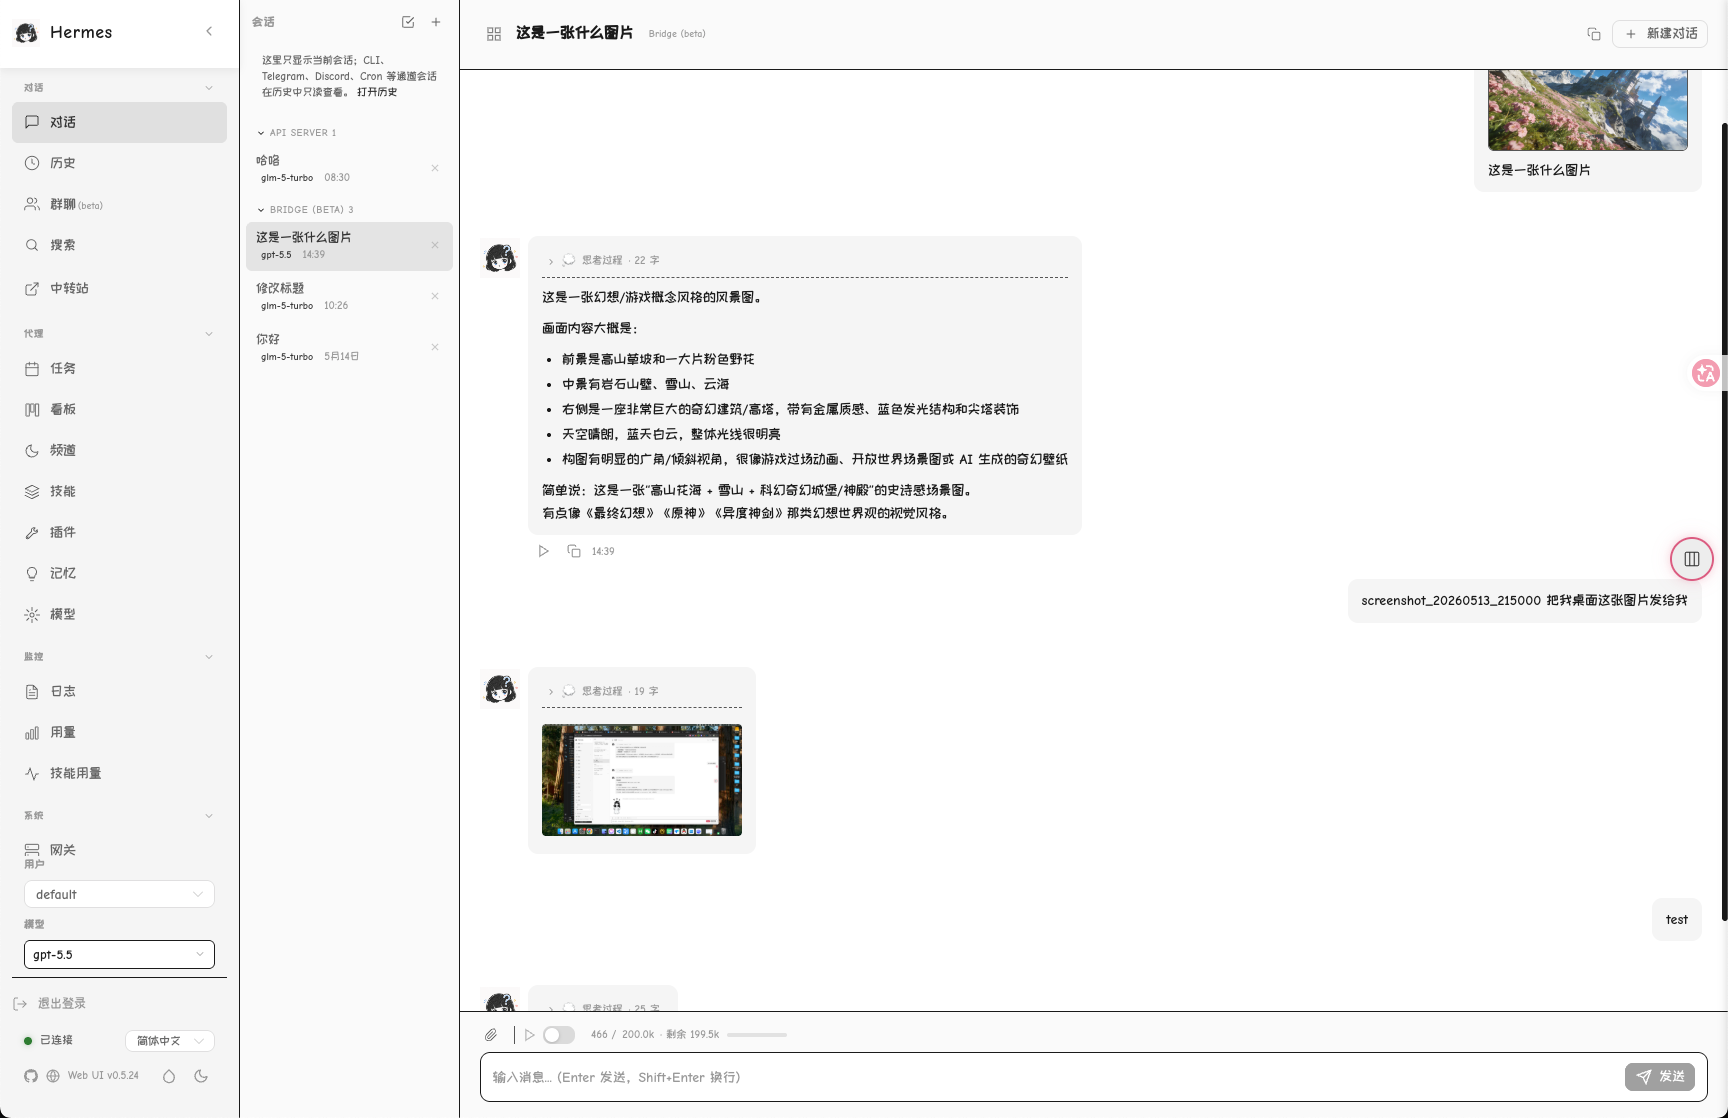
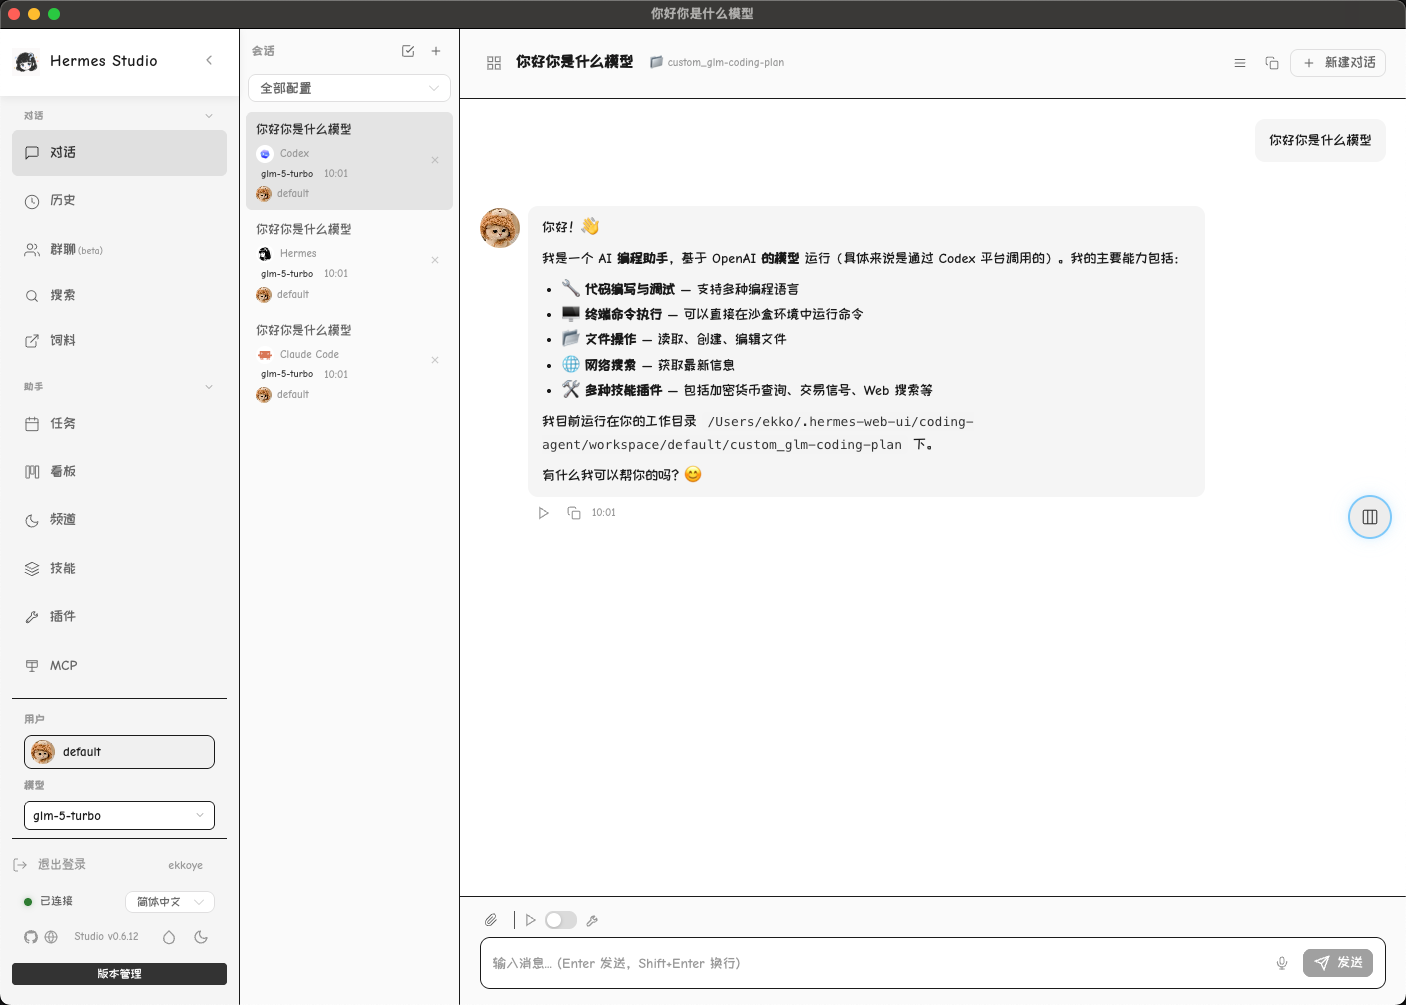
docs: refresh README product overview (#1463)
* docs: refresh README product overview

* docs: refresh README screenshots

Pull request: docs: refresh README product overview
## Summary
- reposition README branding around Hermes Studio as the desktop app, local runtime, and web console
- add a concise core capabilities overview to both English and Chinese READMEs
- document newer visible modules including Kanban, Coding Agents, MCP/runtime management, devices, performance, and desktop update fallback behavior

## Validation
- git diff --check -- README.md README_zh.md

diff --git a/README.md b/README.md
@@ -1,12 +1,12 @@
 <p align="center">
-  <strong>Hermes Web UI</strong>
+  <strong>Hermes Studio</strong>
   <a href="./README_zh.md">中文</a>
 </p>
 
 <p align="center">
-  A full-featured desktop app and web dashboard for <a href="https://github.com/NousResearch/hermes-agent">Hermes Agent</a>.<br/>
-  Manage AI chat sessions, monitor usage & costs, configure platform channels,<br/>
-  schedule cron jobs, browse skills — all from a clean, responsive web interface.
+  A desktop app, local runtime, and web console for <a href="https://github.com/NousResearch/hermes-agent">Hermes Agent</a>.<br/>
+  Chat with agents, manage models and profiles, connect platform channels,<br/>
+  automate jobs, inspect files, run coding agents, and keep everything local.
 </p>
 
 <p align="center">
@@ -35,9 +35,19 @@
   </a>
 </p>
 
-> 🎁 **[Atlas Cloud](https://www.atlascloud.ai/?utm_source=github&utm_medium=link&utm_campaign=hermes-web-ui)** is a full-modal, OpenAI-compatible AI inference platform (DeepSeek, Qwen, GLM, Kimi, MiniMax, …). Select **Atlas Cloud** from the provider panel and add your API key.
+> 🎁 **[Atlas Cloud](https://www.atlascloud.ai/?utm_source=github&utm_medium=link&utm_campaign=hermes-web-ui)** is a multimodal, OpenAI-compatible AI inference platform (DeepSeek, Qwen, GLM, Kimi, MiniMax, …). Select **Atlas Cloud** from the provider panel and add your API key.
 
 ---
+
+## Core Capabilities
+
+| Area | What Hermes Studio does |
+| --- | --- |
+| Agent chat | Runs Hermes Agent conversations with streaming responses, tool traces, file upload/download, and persistent local sessions. |
+| Local control plane | Manages profiles, providers, models, credentials, memory, skills, plugins, logs, and runtime settings from one dashboard. |
+| Automation | Configures platform channels, cron jobs, Kanban tasks, group-chat rooms, and MCP servers around the same Hermes profiles. |
+| Workspace tools | Provides a file browser, web terminal, voice input/output, coding-agent runners, device discovery, and performance views. |
+| Distribution | Ships as a desktop app for Windows/macOS/Linux, an npm CLI package, and a Docker image. |
 
 ## Features
 
@@ -90,6 +100,12 @@ Unified configuration for **8 platforms** in one page:
 - Trigger immediate execution
 - Cron expression quick presets
 
+### Kanban
+
+- Profile-aware Kanban board for planning and tracking agent work
+- Task creation, updates, and status movement from the dashboard
+- Shared with the same local Web UI state and authentication model
+
 ### Model Management
 
 - Auto-discover models from credential pool (`~/.hermes/auth.json`)
@@ -126,6 +142,12 @@ Unified configuration for **8 platforms** in one page:
 - SQLite message persistence
 - Mobile responsive with collapsible sidebar
 
+### Coding Agents
+
+- Launch and monitor local coding-agent sessions from the web dashboard
+- Dedicated proxy routes for Codex and Claude Code integrations
+- Stores agent output and reasoning metadata for later inspection
+
 ### Skills & Memory
 
 - Browse and search installed skills
@@ -137,6 +159,13 @@ Unified configuration for **8 platforms** in one page:
 - View agent / server / error logs
 - Filter by log level, log file, and keyword
 - Structured log parsing with HTTP access log highlighting
+
+### Admin & Runtime Management
+
+- Device and LAN peer views for local-network discovery and peer tooling
+- MCP manager for the managed `hermes-studio` MCP server and profile injection
+- Runtime version and version-preview tooling for testing newer builds in isolation
+- Performance monitor views for super administrators
 
 ### Authentication
 
@@ -191,6 +220,14 @@ hermes-web-ui reset-default-login
 - Real-time keyboard input and PTY output streaming via WebSocket
 - Window resize support
 
+### Desktop App & Updates
+
+- Native Electron shell for Windows, macOS, and Linux
+- Bundles the Web UI runtime and starts the local Hermes Studio server automatically
+- Uses Cloudflare download endpoints for desktop auto-update metadata and assets first
+- Falls back to GitHub Releases `latest` assets if the Cloudflare update feed is unavailable
+- Windows upgrades attempt to close an existing Hermes Studio process before replacing files
+
 ---
 
 ## Quick Start
@@ -209,6 +246,11 @@ runtime and stores Hermes Agent data in the native Hermes location:
 
 The desktop wrapper stores its own Web UI state separately in
 `~/.hermes-web-ui` unless `HERMES_WEB_UI_HOME` is set.
+
+Desktop auto-updates read the latest feed from
+`https://download.ekkolearnai.com/latest` first. If that endpoint is
+unavailable, the updater falls back to
+`https://github.com/EKKOLearnAI/hermes-web-ui/releases/latest/download`.
 
 ### npm
 
@@ -365,7 +407,7 @@ Browser → BFF (Koa, :8648) → Socket.IO /chat-run
 
 The frontend is designed with **multi-agent extensibility** — all Hermes-specific code is namespaced under `hermes/` directories (API, components, views, stores), making it straightforward to add new agent integrations alongside.
 
-The BFF layer handles Socket.IO chat streaming, the Hermes agent bridge, profile-aware file upload and path-based download (multi-backend: local/Docker/SSH/Singularity), session CRUD, account- and profile-scoped management, config/credential management, WeChat QR login, model discovery, skills/memory management, log reading, and static file serving.
+The BFF layer handles Socket.IO chat streaming, the Hermes agent bridge, profile-aware file upload and path-based download (multi-backend: local/Docker/SSH/Singularity), session CRUD, account- and profile-scoped management, config/credential management, WeChat QR login, model discovery, skills/memory/plugin management, TTS/STT, coding-agent proxies, MCP/runtime management, log reading, and static file serving.
 
 ## Tech Stack
 

diff --git a/README_zh.md b/README_zh.md
@@ -1,12 +1,12 @@
 <p align="center">
-  <strong>Hermes Web UI</strong>
+  <strong>Hermes Studio</strong>
   <a href="./README.md">English</a>
 </p>
 
 <p align="center">
-  <a href="https://github.com/NousResearch/hermes-agent">Hermes Agent</a> 的全功能桌面应用和 Web 管理面板。<br/>
-  管理 AI 聊天会话、监控用量与成本、配置平台渠道、<br/>
-  管理定时任务、浏览技能 —— 全部在一个简洁响应式的 Web 界面中完成。
+  面向 <a href="https://github.com/NousResearch/hermes-agent">Hermes Agent</a> 的桌面应用、本地运行时和 Web 控制台。<br/>
+  聊天、模型与 Profile 管理、平台渠道接入、任务自动化、<br/>
+  文件查看、Coding Agent 和本地运行环境都在一个界面中完成。
 </p>
 
 <p align="center">
@@ -43,9 +43,19 @@
   </a>
 </p>
 
-> 🎁 **[Atlas Cloud](https://www.atlascloud.ai/?utm_source=github&utm_medium=link&utm_campaign=hermes-web-ui)** 是全模态、OpenAI 兼容的 AI 推理平台（DeepSeek、Qwen、GLM、Kimi、MiniMax 等）。在 Provider 面板选择 **Atlas Cloud** 并填入 API Key 即可使用。
+> 🎁 **[Atlas Cloud](https://www.atlascloud.ai/?utm_source=github&utm_medium=link&utm_campaign=hermes-web-ui)** 是多模态、OpenAI 兼容的 AI 推理平台（DeepSeek、Qwen、GLM、Kimi、MiniMax 等）。在 Provider 面板选择 **Atlas Cloud** 并填入 API Key 即可使用。
 
 ---
+
+## 核心能力
+
+| 模块 | Hermes Studio 能做什么 |
+|---|---|
+| Agent 聊天 | 运行 Hermes Agent 对话，支持流式回复、工具调用轨迹、文件上传下载和本地持久化会话。 |
+| 本地控制台 | 在一个仪表盘中管理 Profile、Provider、模型、凭证、记忆、技能、插件、日志和运行时设置。 |
+| 自动化 | 围绕同一套 Hermes Profile 配置平台渠道、Cron 任务、Kanban 任务、群聊房间和 MCP Server。 |
+| 工作区工具 | 提供文件浏览器、Web 终端、语音输入输出、Coding Agent、设备发现和性能视图。 |
+| 分发形态 | 支持 Windows/macOS/Linux 桌面应用、npm CLI 包和 Docker 镜像。 |
 
 ## 功能特性
 
@@ -98,6 +108,12 @@
 - 立即触发执行
 - Cron 表达式快捷预设
 
+### Kanban
+
+- 按 Profile 管理的 Kanban 看板，用于规划和跟踪 Agent 工作
+- 可在仪表盘中创建任务、更新任务并移动状态
+- 复用 Web UI 本地状态和认证体系
+
 ### 模型管理
 
 - 从凭证池自动发现模型（`~/.hermes/auth.json`）
@@ -134,6 +150,12 @@
 - SQLite 消息持久化
 - 移动端响应式布局，可折叠侧边栏
 
+### Coding Agents
+
+- 在 Web 仪表盘中启动和监控本地 Coding Agent 会话
+- 为 Codex 和 Claude Code 集成提供独立代理路由
+- 持久化 Agent 输出和 reasoning 元数据，便于后续查看
+
 ### 技能与记忆
 
 - 浏览和搜索已安装的技能
@@ -145,6 +167,13 @@
 - 查看 Agent / Server / Error 日志
 - 按日志级别、日志文件和关键词过滤
 - 结构化日志解析，HTTP 访问日志高亮
+
+### 管理与运行时
+
+- 设备和局域网 Peer 页面，用于本地网络发现和 Peer 工具能力
+- MCP 管理器，用于托管的 `hermes-studio` MCP Server 和 Profile 自动注入
+- Runtime Version 和 Version Preview 工具，用于隔离测试新版本
+- 面向超级管理员的性能监控视图
 
 ### 认证
 
@@ -199,6 +228,14 @@ hermes-web-ui reset-default-login
 - 通过 WebSocket 实时传输键盘输入和 PTY 输出
 - 支持窗口大小调整
 
+### 桌面应用与自动更新
+
+- Windows、macOS 和 Linux 原生 Electron 桌面壳
+- 内置 Web UI 运行时，并自动启动本地 Hermes Studio 服务
+- 桌面自动更新优先使用 Cloudflare 下载端点获取更新元数据和安装包
+- 如果 Cloudflare 更新源不可用，会回退到 GitHub Releases `latest` 资源
+- Windows 升级时会先尝试关闭已有 Hermes Studio 进程，再替换文件
+
 ---
 
 ## 快速开始
@@ -216,6 +253,10 @@ hermes-web-ui reset-default-login
 
 桌面壳自身的 Web UI 状态会单独保存到 `~/.hermes-web-ui`，除非设置了
 `HERMES_WEB_UI_HOME`。
+
+桌面自动更新会优先读取 `https://download.ekkolearnai.com/latest`。
+如果该端点不可用，更新器会回退到
+`https://github.com/EKKOLearnAI/hermes-web-ui/releases/latest/download`。
 
 ### npm 安装
 
@@ -371,7 +412,7 @@ npm run build   # 构建输出到 dist/
 
 前端采用 **多 Agent 可扩展架构** — 所有 Hermes 相关代码都按命名空间组织在 `hermes/` 目录下（API、组件、视图、Store），可以方便地并行接入新的 Agent。
 
-BFF 层负责：Socket.IO 聊天流式推送、Hermes agent bridge、按 Profile 隔离的上传和按路径解析的下载（多 Backend 支持：local/Docker/SSH/Singularity）、会话 CRUD、分账户分 Profile 管理、配置/凭证管理、微信扫码登录、模型发现、技能/记忆管理、日志读取和静态文件服务。
+BFF 层负责：Socket.IO 聊天流式推送、Hermes agent bridge、按 Profile 隔离的上传和按路径解析的下载（多 Backend 支持：local/Docker/SSH/Singularity）、会话 CRUD、分账户分 Profile 管理、配置/凭证管理、微信扫码登录、模型发现、技能/记忆/插件管理、TTS/STT、Coding Agent 代理、MCP/Runtime 管理、日志读取和静态文件服务。
 
 ## 技术栈
 